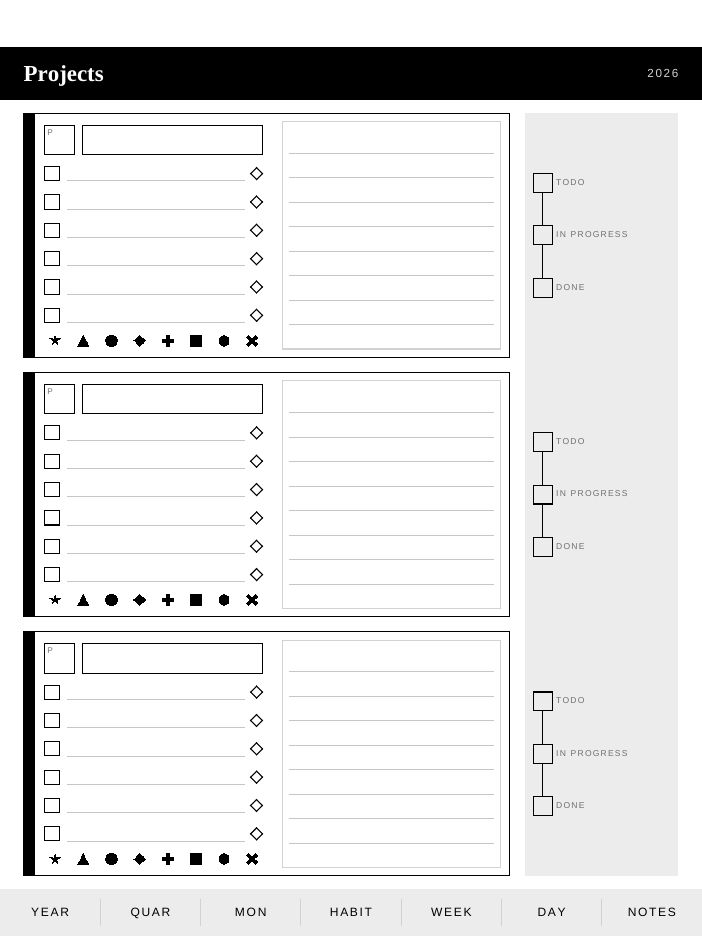
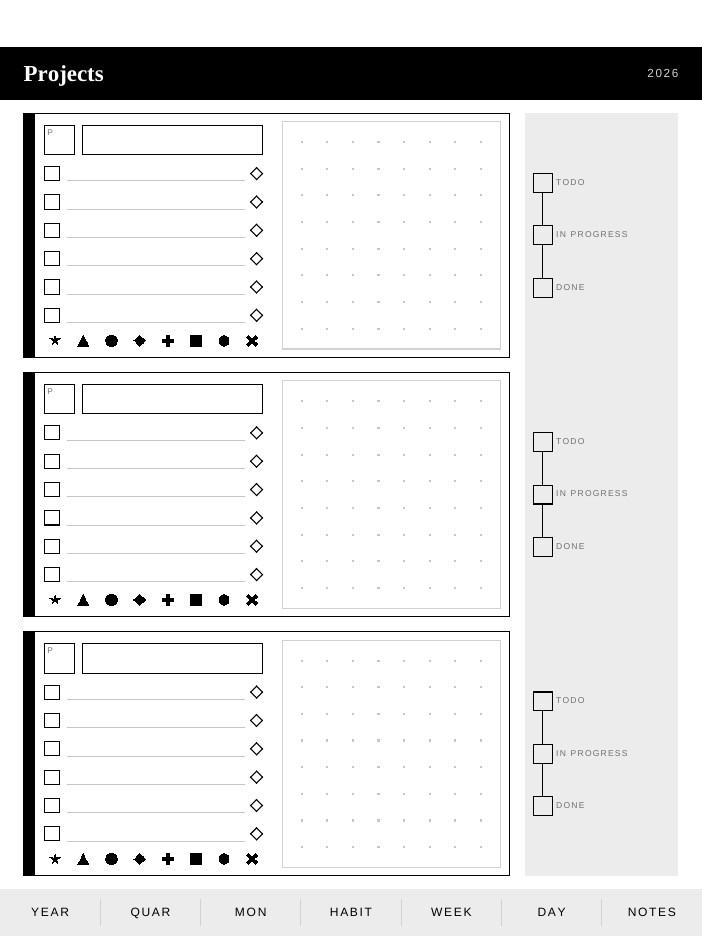
Switch the clone notes pocket to a light dot grid.
No dotted well existed in parch. RULE_C hairline dots on tracks at
the daily-notes pitch. Taller notes seat, ticks, P, and strip stay.

diff --git a/src/parch/layouts/planner/painters.py b/src/parch/layouts/planner/painters.py
@@ -307,6 +307,8 @@ CLONE_P_SIZE = 5.2
 CLONE_NAME_GAP = 1.4
 CLONE_TASK_TOP = 0.4
 CLONE_TASK_CLEAR = 0.55
+CLONE_DOT_PITCH = 4.15
+CLONE_DOT = 0.36
 
 
 def clone_icon_cluster_width(n: int = len(CLONE_ICONS)) -> float:
@@ -373,7 +375,7 @@ def projects_clone_a_card(card: Rect) -> tuple[Rect, Rect, Rect, Rect, Rect, Rec
 def paint_projects_clone_faithful(plotter: Plotter, box: Rect, board: ProjectsBoard) -> None:
     """projects_clone_a — kanban information architecture in Nomad #207 craft.
 
-    Lined notes (daily-notes pitch), not graph: graph fights e-ink at this size.
+    Dot-grid notes (daily-notes pitch), not graph: light hairline dots.
     Status nodes are open squares — ``Plotter`` has no circle primitive.
     Spine is a narrow ink bar; rotated PROJECT / chevrons stay off.
     """
@@ -385,10 +387,31 @@ def paint_projects_clone_faithful(plotter: Plotter, box: Rect, board: ProjectsBo
         _paint_clone_priority(plotter, name_h)
         plotter.rect(name_field, stroke=True, fill=False, stroke_width=HAIR, stroke_gray=INK)
         _paint_clone_tasks(plotter, tasks)
-        _paint_note_box(plotter, notes)
+        _paint_clone_dot_grid(plotter, notes)
         _paint_clone_icon_strip(plotter, strip)
         _paint_clone_status_track(plotter, rail)
         plotter.rect(card, stroke=True, fill=False, stroke_width=HAIR, stroke_gray=INK)
+
+
+def _paint_clone_dot_grid(plotter: Plotter, box: Rect) -> None:
+    """E-ink dot grid — SOFT pocket, RULE_C dots on tracks at note pitch."""
+    plotter.rect(box, stroke=True, fill=False, stroke_width=HAIR, stroke_gray=SOFT)
+    inset = Rect(box.x + 1.1, box.y + 1.2, box.w - 2.2, box.h - 2.4)
+    nx = max(2, int(inset.w / CLONE_DOT_PITCH))
+    ny = max(2, int(inset.h / CLONE_DOT_PITCH))
+    for band in rows(inset, ny):
+        for cell in columns(band, nx):
+            plotter.rect(
+                Rect(
+                    cell.x + (cell.w - CLONE_DOT) / 2,
+                    cell.y + (cell.h - CLONE_DOT) / 2,
+                    CLONE_DOT,
+                    CLONE_DOT,
+                ),
+                stroke=False,
+                fill=True,
+                fill_gray=RULE_C,
+            )
 
 
 def _paint_clone_priority(plotter: Plotter, header: Rect) -> float:

diff --git a/tests/test_projects.py b/tests/test_projects.py
@@ -7,6 +7,7 @@ from parch.geom import Rect
 from parch.layouts.planner import PlannerLayout
 from parch.layouts.planner.layout import well_rect
 from parch.layouts.planner.painters import (
+    CLONE_DOT,
     CLONE_ICONS,
     CLONE_P_PAD,
     CLONE_P_SIZE,
@@ -267,6 +268,16 @@ def test_projects_clone_faithful_paint():
 
     fills = [op for op in plotter.ops if op[0] == "rect" and op[3] and not op[2]]
     assert len(fills) > 4  # rail + spines + filled icon scanlines
+    dots = [
+        op
+        for op in plotter.ops
+        if op[0] == "rect"
+        and op[3]
+        and not op[2]
+        and op[1].w == pytest.approx(CLONE_DOT)
+        and op[1].h == pytest.approx(CLONE_DOT)
+    ]
+    assert len(dots) > 30
     assert CLONE_STATUS_LABELS == ("Todo", "In Progress", "Done")
 
 
